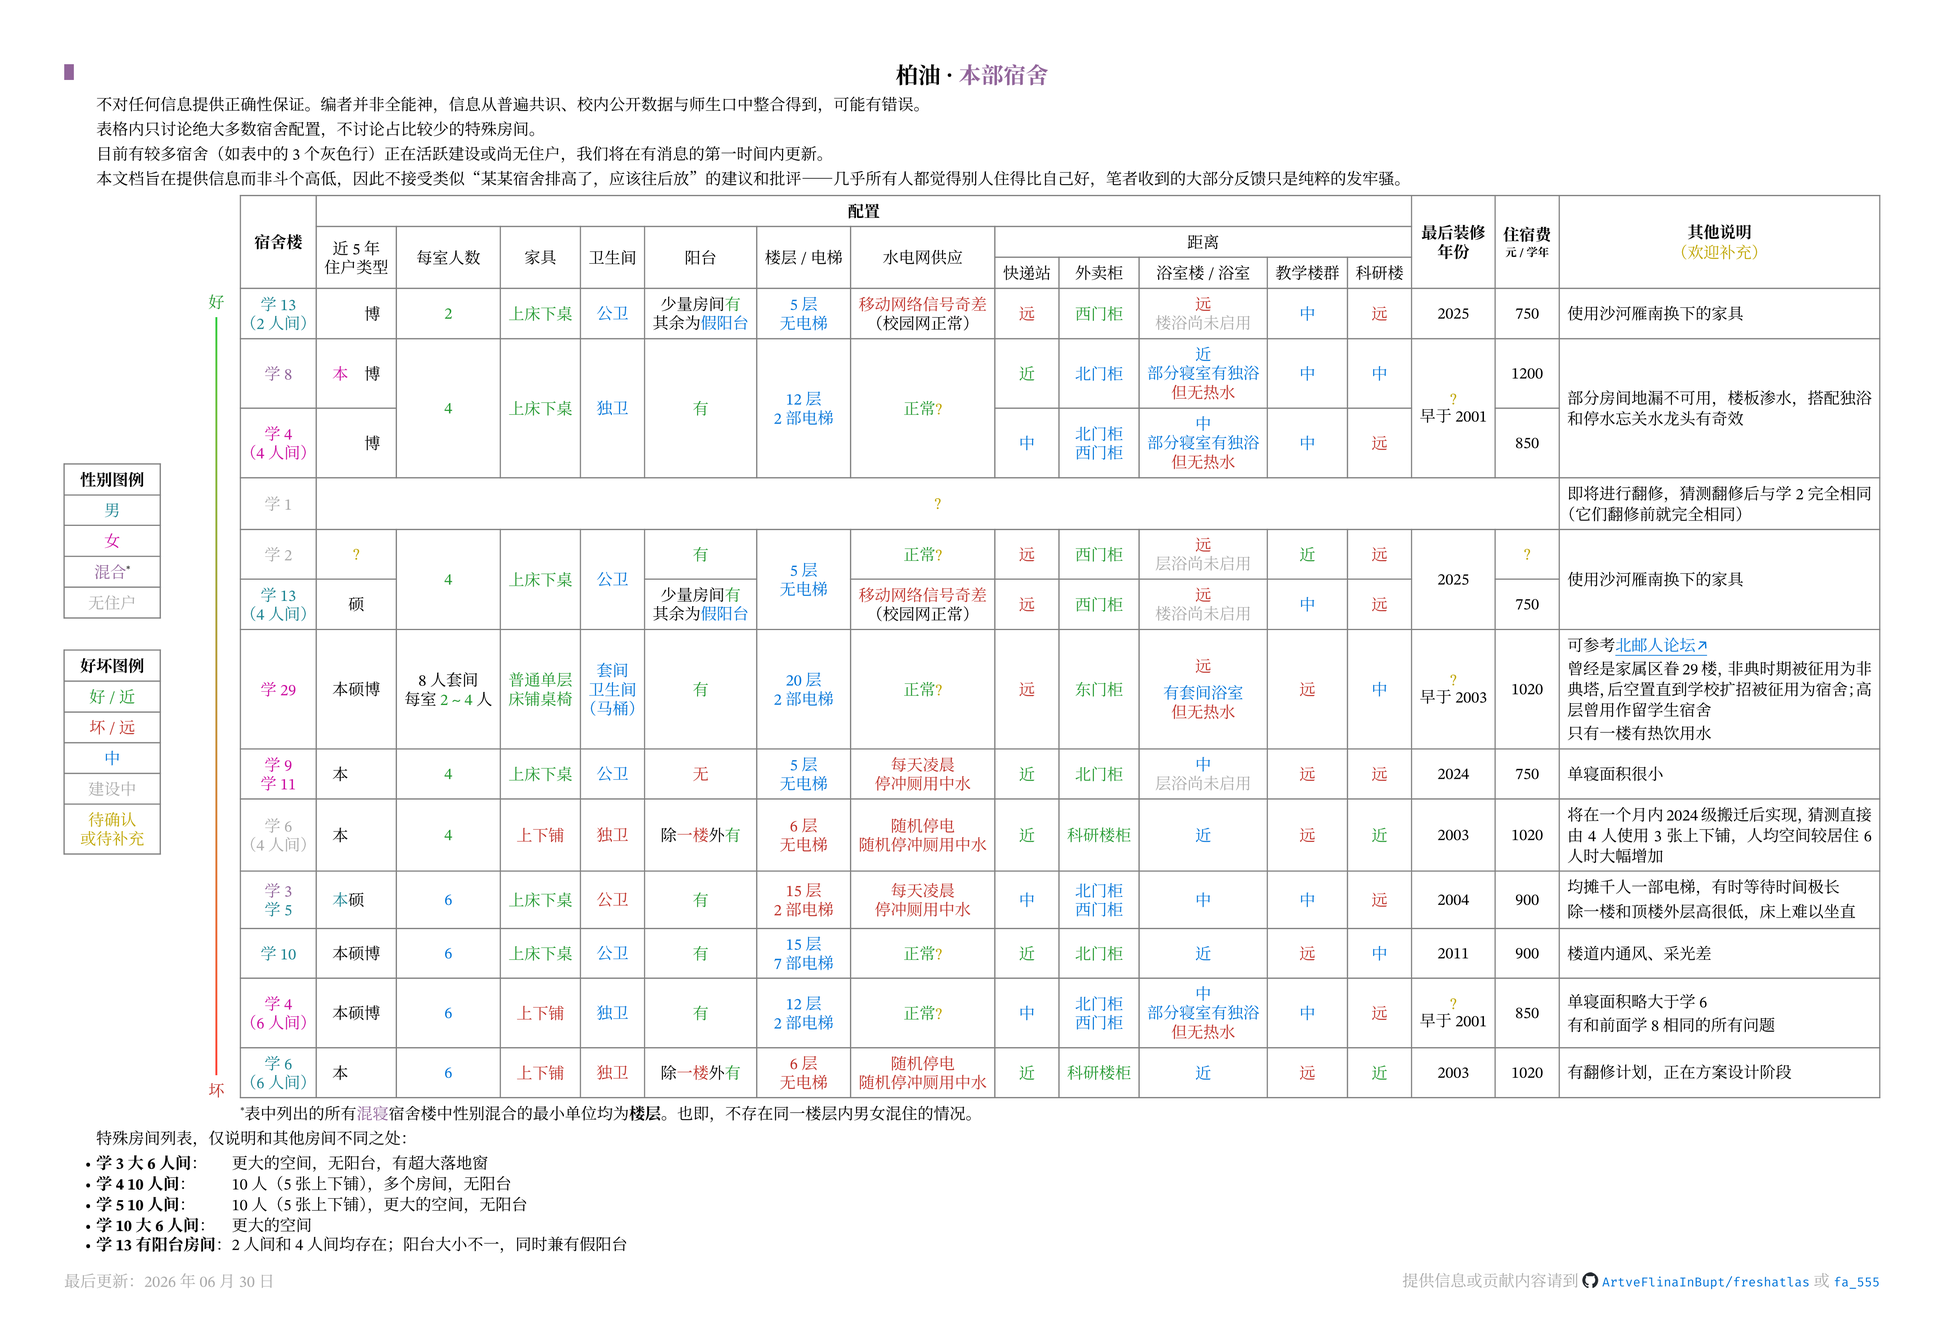
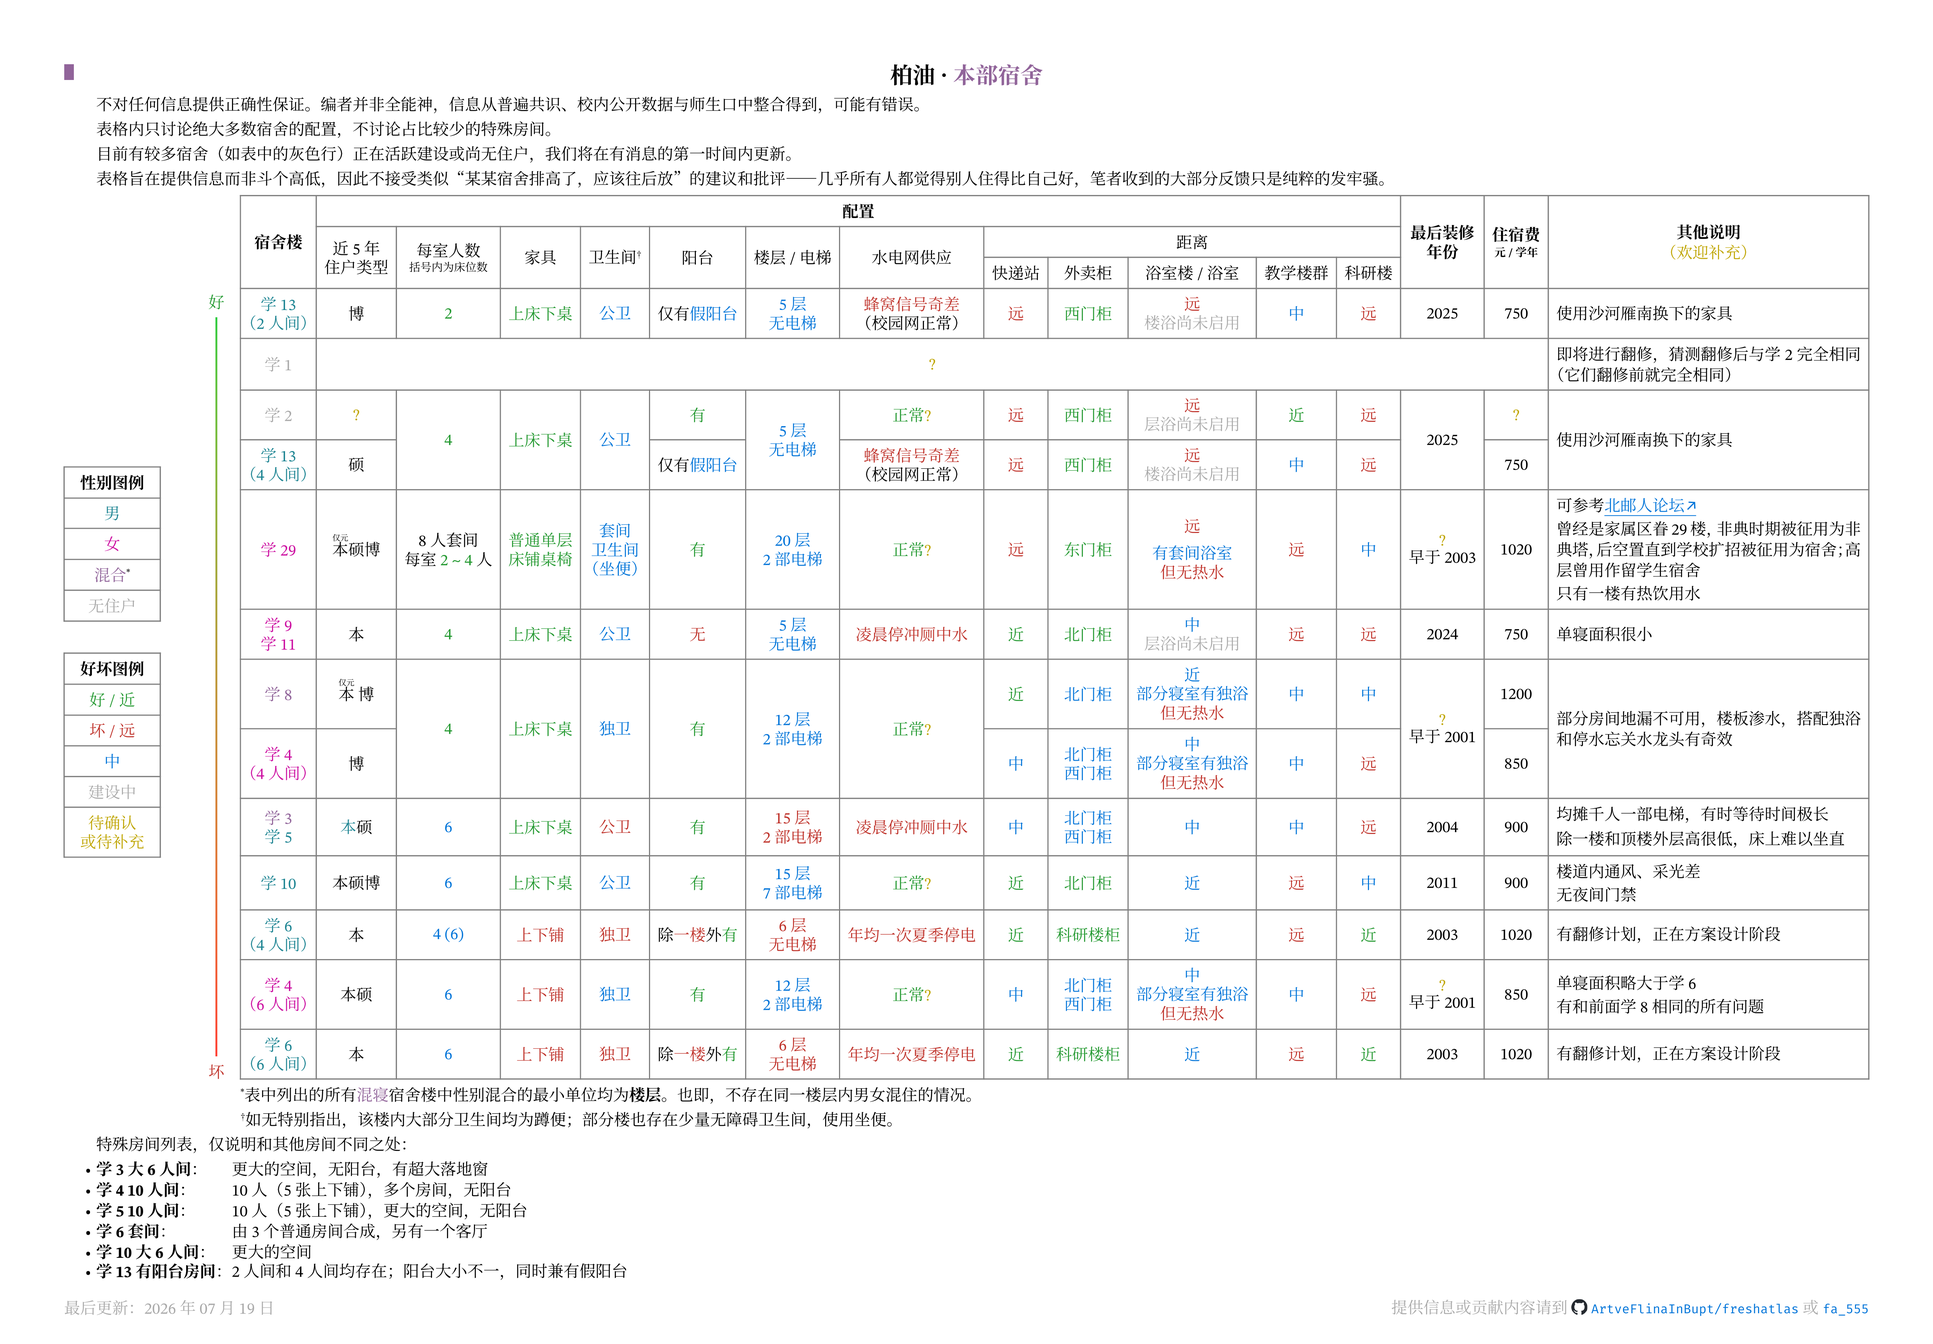
docs: 同步柏油图谱宿舍对比图（沙河 / 本部分图） (#127)
来源 commit ef354e6，按校区拆分为沙河、本部两张图，并同步
@byrdocs-bot 文字版表格。图片以 CC BY-NC-SA 4.0 提供。

diff --git a/src/content/docs/海淀校区/住宿条件.md b/src/content/docs/海淀校区/住宿条件.md
@@ -21,30 +21,32 @@ description: 住宿条件
 
 > 图片来源：[BUPT-freshatlas](https://github.com/ArtveFlinaInBupt/freshatlas)，原图含沙河、本部两校区，此处已拆分为仅本部部分。以 CC BY-NC-SA 4.0 提供。
 
-<!-- @byrdocs-bot 上图（海淀/本部宿舍逐楼对比）文字版，供无法读图的助手参考；信息以图片为准。表格纵向按“好→差”排序。颜色含义已转为文字：好/近=优，坏/远=差，中=中等；性别用“男/女/混”标注。脚注用 * 标记。距离列顺序为：快递站 / 外卖柜 / 浴室 / 教学楼群 / 科研楼。
+<!-- @byrdocs-bot 上图（海淀/本部宿舍逐楼对比）文字版，供无法读图的助手参考；信息以图片为准。表格纵向按“好→差”排序。颜色含义已转为文字：好/近=优，坏/远=差，中=中等；性别用“男/女/混”标注。脚注用 * † 标记。距离列顺序为：快递站 / 外卖柜 / 浴室 / 教学楼群 / 科研楼。
 
 逐楼（从好到差）：
-1. 学 13（2 人间）（男）：博；2 人间(好)；上床下桌(好)；公卫(中)；阳台少量房间有、其余假阳台；5 层无电梯(中)；移动网络信号奇差、校园网正常(差)；距离：快递远(差) / 外卖西门柜(好) / 浴室远 楼浴尚未启用(差) / 教学中 / 科研远(差)；最后装修 2025；住宿费 750；说明：使用沙河雁南换下的家具。
-2. 学 8（混，女本+博）：4 人(好)；上床下桌(好)；独卫(中)；有阳台(好)；12 层 2 部电梯(中)；水电正常(好)；距离：快递近(好) / 外卖北门柜(中) / 浴室近、部分寝室有独浴但无热水 / 教学中 / 科研中；最后装修早于 2001；住宿费 1200；说明：部分房间地漏不可用、楼板渗水，搭配独浴和停水忘关水龙头有奇效。
-3. 学 4（4 人间）（女）：博；4 人(好)；上床下桌(好)；独卫(中)；有阳台(好)；12 层 2 部电梯(中)；水电正常(好)；距离：快递中 / 外卖北门柜、西门柜 / 浴室中、部分独浴但无热水 / 教学中 / 科研远(差)；最后装修早于 2001（与学 8 合并单元格）；住宿费 850。
-4. 学 1（建设中 / 无住户）：配置待确认；说明：即将进行翻修，猜测翻修后与学 2 完全相同（它们翻修前就完全相同）。
-5. 学 2（建设中 / 无住户）：住户待确认；4 人(好)；上床下桌(好)；公卫(中)；有阳台(好)；5 层无电梯(中)；水电正常(好)；距离：快递远(差) / 外卖西门柜(好) / 浴室远 层浴尚未启用(差) / 教学近(好) / 科研远(差)；最后装修 2025；住宿费待确认；说明：使用沙河雁南换下的家具。
-6. 学 13（4 人间）（男）：硕；4 人(好)；上床下桌(好)；公卫(中)；阳台少量房间有、其余假阳台；5 层无电梯(中)；移动网络信号奇差、校园网正常(差)；距离：快递远(差) / 外卖西门柜(好) / 浴室远 楼浴尚未启用(差) / 教学中 / 科研远(差)；最后装修 2025；住宿费 750；说明：使用沙河雁南换下的家具。
-7. 学 29（女）：本硕博；8 人套间、每室 2～4 人(好)；普通单层床铺桌椅(好)；套间卫生间（马桶）(中)；有阳台(好)；20 层 2 部电梯(中)；水电正常(好)；距离：快递远(差) / 外卖东门柜(好) / 浴室远、有套间浴室但无热水(差) / 教学远(差) / 科研中；最后装修早于 2003；住宿费 1020；说明：曾是家属区眷 29 楼，非典时期作非典塔，后空置，因扩招改为宿舍，高层曾作留学生宿舍，只有一楼有热饮用水。
-8. 学 9 / 学 11（女）：本科；4 人(好)；上床下桌(好)；公卫(中)；无阳台(差)；5 层无电梯(中)；每天凌晨停冲厕用中水(差)；距离：快递近(好) / 外卖北门柜(好) / 浴室中 层浴尚未启用 / 教学远(差) / 科研远(差)；最后装修 2024；住宿费 750；说明：单寝面积很小。
-9. 学 6（4 人间）（建设中 / 无住户）：本科；4 人(好)；上下铺(差)；独卫(差)；除一楼外有阳台；6 层无电梯(差)；随机停电、随机停冲厕用中水(差)；距离：快递近(好) / 外卖科研楼柜(好) / 浴室近(中) / 教学远(差) / 科研近(好)；最后装修 2003；住宿费 1020；说明：将在一个月内 2024 级搬迁后实现，猜测直接由 4 人使用 3 张上下铺，人均空间较居住 6 人时大幅增加。
-10. 学 3（混）/ 学 5（男）：本硕；6 人(中)；上床下桌(好)；公卫(差)；有阳台(好)；15 层 2 部电梯(差)；每天凌晨停冲厕用中水(差)；距离：快递中 / 外卖北门柜、西门柜(中) / 浴室中 / 教学中 / 科研远(差)；最后装修 2004；住宿费 900；说明：均摊千人一部电梯、等待时间极长；除一楼和顶楼外层高很低，床上难以坐直。
-11. 学 10（男）：本硕博；6 人(中)；上床下桌(好)；公卫(中)；有阳台(好)；15 层 7 部电梯(中)；水电正常(好)；距离：快递近(好) / 外卖北门柜(好) / 浴室近(中) / 教学远(差) / 科研中；最后装修 2011；住宿费 900；说明：楼道内通风、采光差。
-12. 学 4（6 人间）（女）：本硕博；6 人(中)；上下铺(差)；独卫(中)；有阳台(好)；12 层 2 部电梯(中)；水电正常(好)；距离：快递中 / 外卖北门柜、西门柜(中) / 浴室中、部分独浴但无热水 / 教学中 / 科研远(差)；最后装修早于 2001；住宿费 850；说明：单寝面积略大于学 6，有与学 8 相同的所有问题。
-13. 学 6（6 人间）（男）：本科；6 人(中)；上下铺(差)；独卫(差)；除一楼外有阳台；6 层无电梯(差)；随机停电、随机停冲厕用中水(差)；距离：快递近(好) / 外卖科研楼柜(好) / 浴室近(中) / 教学远(差) / 科研近(好)；最后装修 2003；住宿费 1020；说明：有翻修计划，正在方案设计阶段。
+1. 学 13（2 人间）（男）：博；2 人间(好)；上床下桌(好)；公卫(中)；仅有假阳台(中)；5 层无电梯(中)；蜂窝信号奇差、校园网正常(差)；距离：快递远(差) / 外卖西门柜(好) / 浴室远 楼浴尚未启用(差) / 教学中 / 科研远(差)；最后装修 2025；住宿费 750；说明：使用沙河雁南换下的家具。
+2. 学 1（无住户 / 建设中）：全部配置待确认；说明：即将进行翻修，猜测翻修后与学 2 完全相同（它们翻修前就完全相同）。
+3. 学 2（无住户 / 建设中）：住户待确认；4 人(好)；上床下桌(好)；公卫(中)；有阳台(好)；5 层无电梯(中)；水电正常(好)；距离：快递远(差) / 外卖西门柜(好) / 浴室远 层浴尚未启用(差) / 教学近(好) / 科研远(差)；最后装修 2025；住宿费待确认；说明：使用沙河雁南换下的家具。
+4. 学 13（4 人间）（男）：硕；4 人(好)；上床下桌(好)；公卫(中)；仅有假阳台(中)；5 层无电梯(中)；蜂窝信号奇差、校园网正常(差)；距离：快递远(差) / 外卖西门柜(好) / 浴室远 楼浴尚未启用(差) / 教学中 / 科研远(差)；最后装修 2025；住宿费 750；说明：使用沙河雁南换下的家具。
+5. 学 29（女）：仅元本硕博；8 人套间、每室 2～4 人(好)；普通单层床铺桌椅(好)；套间卫生间（坐便）(中)；有阳台(好)；20 层 2 部电梯(中)；水电正常(好)；距离：快递远(差) / 外卖东门柜(好) / 浴室远、有套间浴室但无热水(差) / 教学远(差) / 科研中；最后装修早于 2003；住宿费 1020；说明：曾是家属区眷 29 楼，非典时期作非典塔，后空置，因扩招改为宿舍，高层曾作留学生宿舍，只有一楼有热饮用水。
+6. 学 9 / 学 11（女）：本科；4 人(好)；上床下桌(好)；公卫(中)；无阳台(差)；5 层无电梯(中)；凌晨停冲厕中水(差)；距离：快递近(好) / 外卖北门柜(好) / 浴室中 层浴尚未启用 / 教学远(差) / 科研远(差)；最后装修 2024；住宿费 750；说明：单寝面积很小。
+7. 学 8（混，仅元本+博）：4 人(好)；上床下桌(好)；独卫(中)；有阳台(好)；12 层 2 部电梯(中)；水电正常(好)；距离：快递近(好) / 外卖北门柜(中) / 浴室近、部分寝室有独浴但无热水 / 教学中 / 科研中；最后装修早于 2001；住宿费 1200；说明：部分房间地漏不可用、楼板渗水，搭配独浴和停水忘关水龙头有奇效。
+8. 学 4（4 人间）（女）：博；4 人(好)；上床下桌(好)；独卫(中)；有阳台(好)；12 层 2 部电梯(中)；水电正常(好)；距离：快递中 / 外卖北门柜、西门柜 / 浴室中、部分独浴但无热水 / 教学中 / 科研远(差)；最后装修早于 2001（与学 8 合并单元格）；住宿费 850。
+9. 学 3（混）/ 学 5（男）：本硕；6 人(中)；上床下桌(好)；公卫(差)；有阳台(好)；15 层 2 部电梯(差)；凌晨停冲厕中水(差)；距离：快递中 / 外卖北门柜、西门柜(中) / 浴室中 / 教学中 / 科研远(差)；最后装修 2004；住宿费 900；说明：均摊千人一部电梯、等待时间极长；除一楼和顶楼外层高很低，床上难以坐直。
+10. 学 10（男）：本硕博；6 人(中)；上床下桌(好)；公卫(中)；有阳台(好)；15 层 7 部电梯(中)；水电正常(好)；距离：快递近(好) / 外卖北门柜(好) / 浴室近(中) / 教学远(差) / 科研中；最后装修 2011；住宿费 900；说明：楼道内通风、采光差；无夜间门禁。
+11. 学 6（4 人间）（男）：本科；4 人（床位6）(中)；上下铺(差)；独卫(差)；除一楼外有阳台；6 层无电梯(差)；年均一次夏季停电(差)；距离：快递近(好) / 外卖科研楼柜(好) / 浴室近(中) / 教学远(差) / 科研近(好)；最后装修 2003；住宿费 1020；说明：有翻修计划，正在方案设计阶段。
+12. 学 4（6 人间）（女）：本硕；6 人(中)；上下铺(差)；独卫(中)；有阳台(好)；12 层 2 部电梯(中)；水电正常(好)；距离：快递中 / 外卖北门柜、西门柜(中) / 浴室中、部分独浴但无热水 / 教学中 / 科研远(差)；最后装修早于 2001；住宿费 850；说明：单寝面积略大于学 6，有与学 8 相同的所有问题。
+13. 学 6（6 人间）（男）：本科；6 人(中)；上下铺(差)；独卫(差)；除一楼外有阳台；6 层无电梯(差)；年均一次夏季停电(差)；距离：快递近(好) / 外卖科研楼柜(好) / 浴室近(中) / 教学远(差) / 科研近(好)；最后装修 2003；住宿费 1020；说明：有翻修计划，正在方案设计阶段。
 
 脚注：
 * 表中所有混寝楼性别混合的最小单位均为“楼层”，不存在同一楼层男女混住。
+† 如无特别指出，楼内大部分卫生间均为蹲便；部分楼也存在少量无障碍卫生间，使用坐便。
 
 特殊房间（仅说明与其他房间不同之处）：
 - 学 3 大 6 人间：更大空间，无阳台，有超大落地窗。
 - 学 4 10 人间：10 人（5 张上下铺），多个房间，无阳台。
 - 学 5 10 人间：10 人（5 张上下铺），更大空间，无阳台。
+- 学 6 套间：由 3 个普通房间合成，另有一个客厅。
 - 学 10 大 6 人间：更大空间。
 - 学 13 有阳台房间：2 人间和 4 人间均存在；阳台大小不一，兼有假阳台。
 -->

diff --git a/src/content/docs/沙河校区/住宿条件.md b/src/content/docs/沙河校区/住宿条件.md
@@ -23,21 +23,23 @@ description: 住宿条件
 
 > 图片来源：[BUPT-freshatlas](https://github.com/ArtveFlinaInBupt/freshatlas)，原图含沙河、本部两校区，此处已拆分为仅沙河部分。以 CC BY-NC-SA 4.0 提供。
 
-<!-- @byrdocs-bot 上图（沙河宿舍逐楼对比）文字版，供无法读图的助手参考；信息以图片为准。表格纵向按“好→差”排序。颜色含义已转为文字：好/近=优，坏/远=差，中=中等；性别用“男/女/混”标注。脚注用 * † ‡ 标记。距离含快递站 / 外卖柜 / 浴室 / 教学楼群 / 科研楼。
+<!-- @byrdocs-bot 上图（沙河宿舍逐楼对比）文字版，供无法读图的助手参考；信息以图片为准。表格纵向按“好→差”排序。颜色含义已转为文字：好/近=优，坏/远=差，中=中等；性别用“男/女/混”标注。脚注用 * † ‡ § ‖ ¶ 标记。距离含快递站 / 外卖柜 / 浴室 / 教学楼群 / 科研楼。
 
 逐楼（从好到差）：
-1. 研究生楼（建设中）：配置待确认；说明：大概率下学期将投入使用，猜测内部环境与学 13 类似，也有 2 人间与 4 人间。
-2. 雁南 S6（女）：本硕博；4 人间(好)；上床下桌(好)；独卫+公卫(好)†‡；有阳台(好)；6 层有电梯(好)；水电网正常(好)；快递站远(差)；外卖小南门柜(差)；层浴(好)†；最后装修 2020；住宿费 1200；说明：单独一期工程，与 S1～S5 无关，面积大于其他宿舍，家具更好，上下床走台阶而非爬梯。
-3. 雁南 S5 / 雁南 S4（24 级前）（女）：其余配置同 S6；6 层有电梯(好)；最后装修 2016；住宿费 900；说明：仍有部分 2024 级以上女生居住，对应房间维持原有上床下桌家具。
-4. 雁北 E / 雁北 D2（男）：4 人间、上床下桌、独卫+公卫、有阳台（均好）；6 层有电梯(好)；水电正常；快递远、外卖小南门柜(差)；层浴(好)；最后装修 2014；住宿费 1200；说明：单寝面积略小于雁南。
+1. 研究生楼（无住户 / 建设中）：全部配置待确认；说明：大概率下学期将投入使用，猜测内部环境与学 13 类似，也有 2 人间与 4 人间；由于多方因素，研究生楼建成伊始可能实际上会交给 2026 级本研新生居住。
+2. 雁南 S6（女）：本硕博；每室 4 人(好)；上床下桌(好)；独卫+公卫(好)†‡；有阳台(好)；6 层有电梯(好)；水电网正常(好)；快递站远(差)；外卖小南门柜(差)；层浴(好)†；教学楼群、科研楼未标注；最后装修 2020；住宿费 1200；说明：单独一期工程修建，与 S1～S5 无关；单寝面积大于其他宿舍楼，家具也更好。
+3. 雁南 S5（女）/ 雁南 S4（混）‖ / 雁南 S3、S2（男）：本硕博；每室人数 4 人(好) 或 5(床位6)或6 人(中)；家具 上床下桌(好) 或 床床/床桌混合(中)；独卫+公卫(好)†‡；有阳台(好)；6 层有电梯(好)；水电网正常(好)；快递站远(差)；外卖小南门柜(差)；层浴(好)†；最后装修 2016；住宿费 1200（待确认）；说明：经历过临时 4 改 6 又改 4 的瞎折腾，目前保留的非 4 人间多为原寝主动选择维持原样。
+4. 雁北 E / 雁北 D2（男）：每室 4 人(好)；上床下桌(好)；独卫+公卫(好)†‡；有阳台(好)；6 层有电梯(好)；水电网正常(好)；快递站远(差)；外卖小南门柜(差)；层浴(好)†；最后装修 2014；住宿费 1200；说明：单寝面积略小于雁南。
 5. 雁北 D1 / 雁北 C（男）：配置同上；6 层有电梯(好)‡；最后装修 2014；住宿费 1200；单寝面积略小于雁南。
 6. 雁北 B / 雁北 A（男）：配置同上；6 层部分有电梯(中)‡；最后装修 2014；住宿费 1200；单寝面积略小于雁南。
-7. 雁南 S2 / S3（男）、S4（混）、S5（女）（25 级）：本硕博；6 人间(中)；家具中等（床位布局不统一，部分上下铺、部分上床下桌）；独卫+公卫(好)†；有阳台(好)；6 层有电梯(好)；水电正常；快递远、外卖小南门柜(差)；层浴(好)；最后装修 2016；住宿费 900；说明：床位布局难以评价、床铺尺寸不统一。
 
 脚注：
 * 表中所有混寝楼性别混合的最小单位均为“楼层”，不存在同一楼层男女混住。
 † 雁北 D2、E 为一个区域，内部部分连通、共用电梯；D2 借用 E 的公卫/水房/浴室，可能需前往其他层。
 ‡ 雁北 A、B、C、D1 为一个区域，内部部分连通；两部电梯均位于 D1，A/B/C 需借道；A、B 二楼与 A 六楼无法乘电梯到达、需步行一层；B、D 借用位于 A、C 的各一套公卫/水房/浴室。
+§ 如无特别指出，楼内大部分卫生间均为蹲便；部分楼也存在少量无障碍卫生间，使用坐便。
+‖ 雁南 S4 虽理论上为混寝楼，但实际上女生住户归 S5 管理，通过 S5 楼门出入，并使用 S5 的水房、浴室等设施，与男生住户被物理隔断。¶
+¶ Fun fact：笔者本人曾为 S4 住户，且是某寝室的最后一届男住户；该寝室自笔者搬离后就被改造并入了女寝部分。
 -->
 
 ## 宿舍内环境
